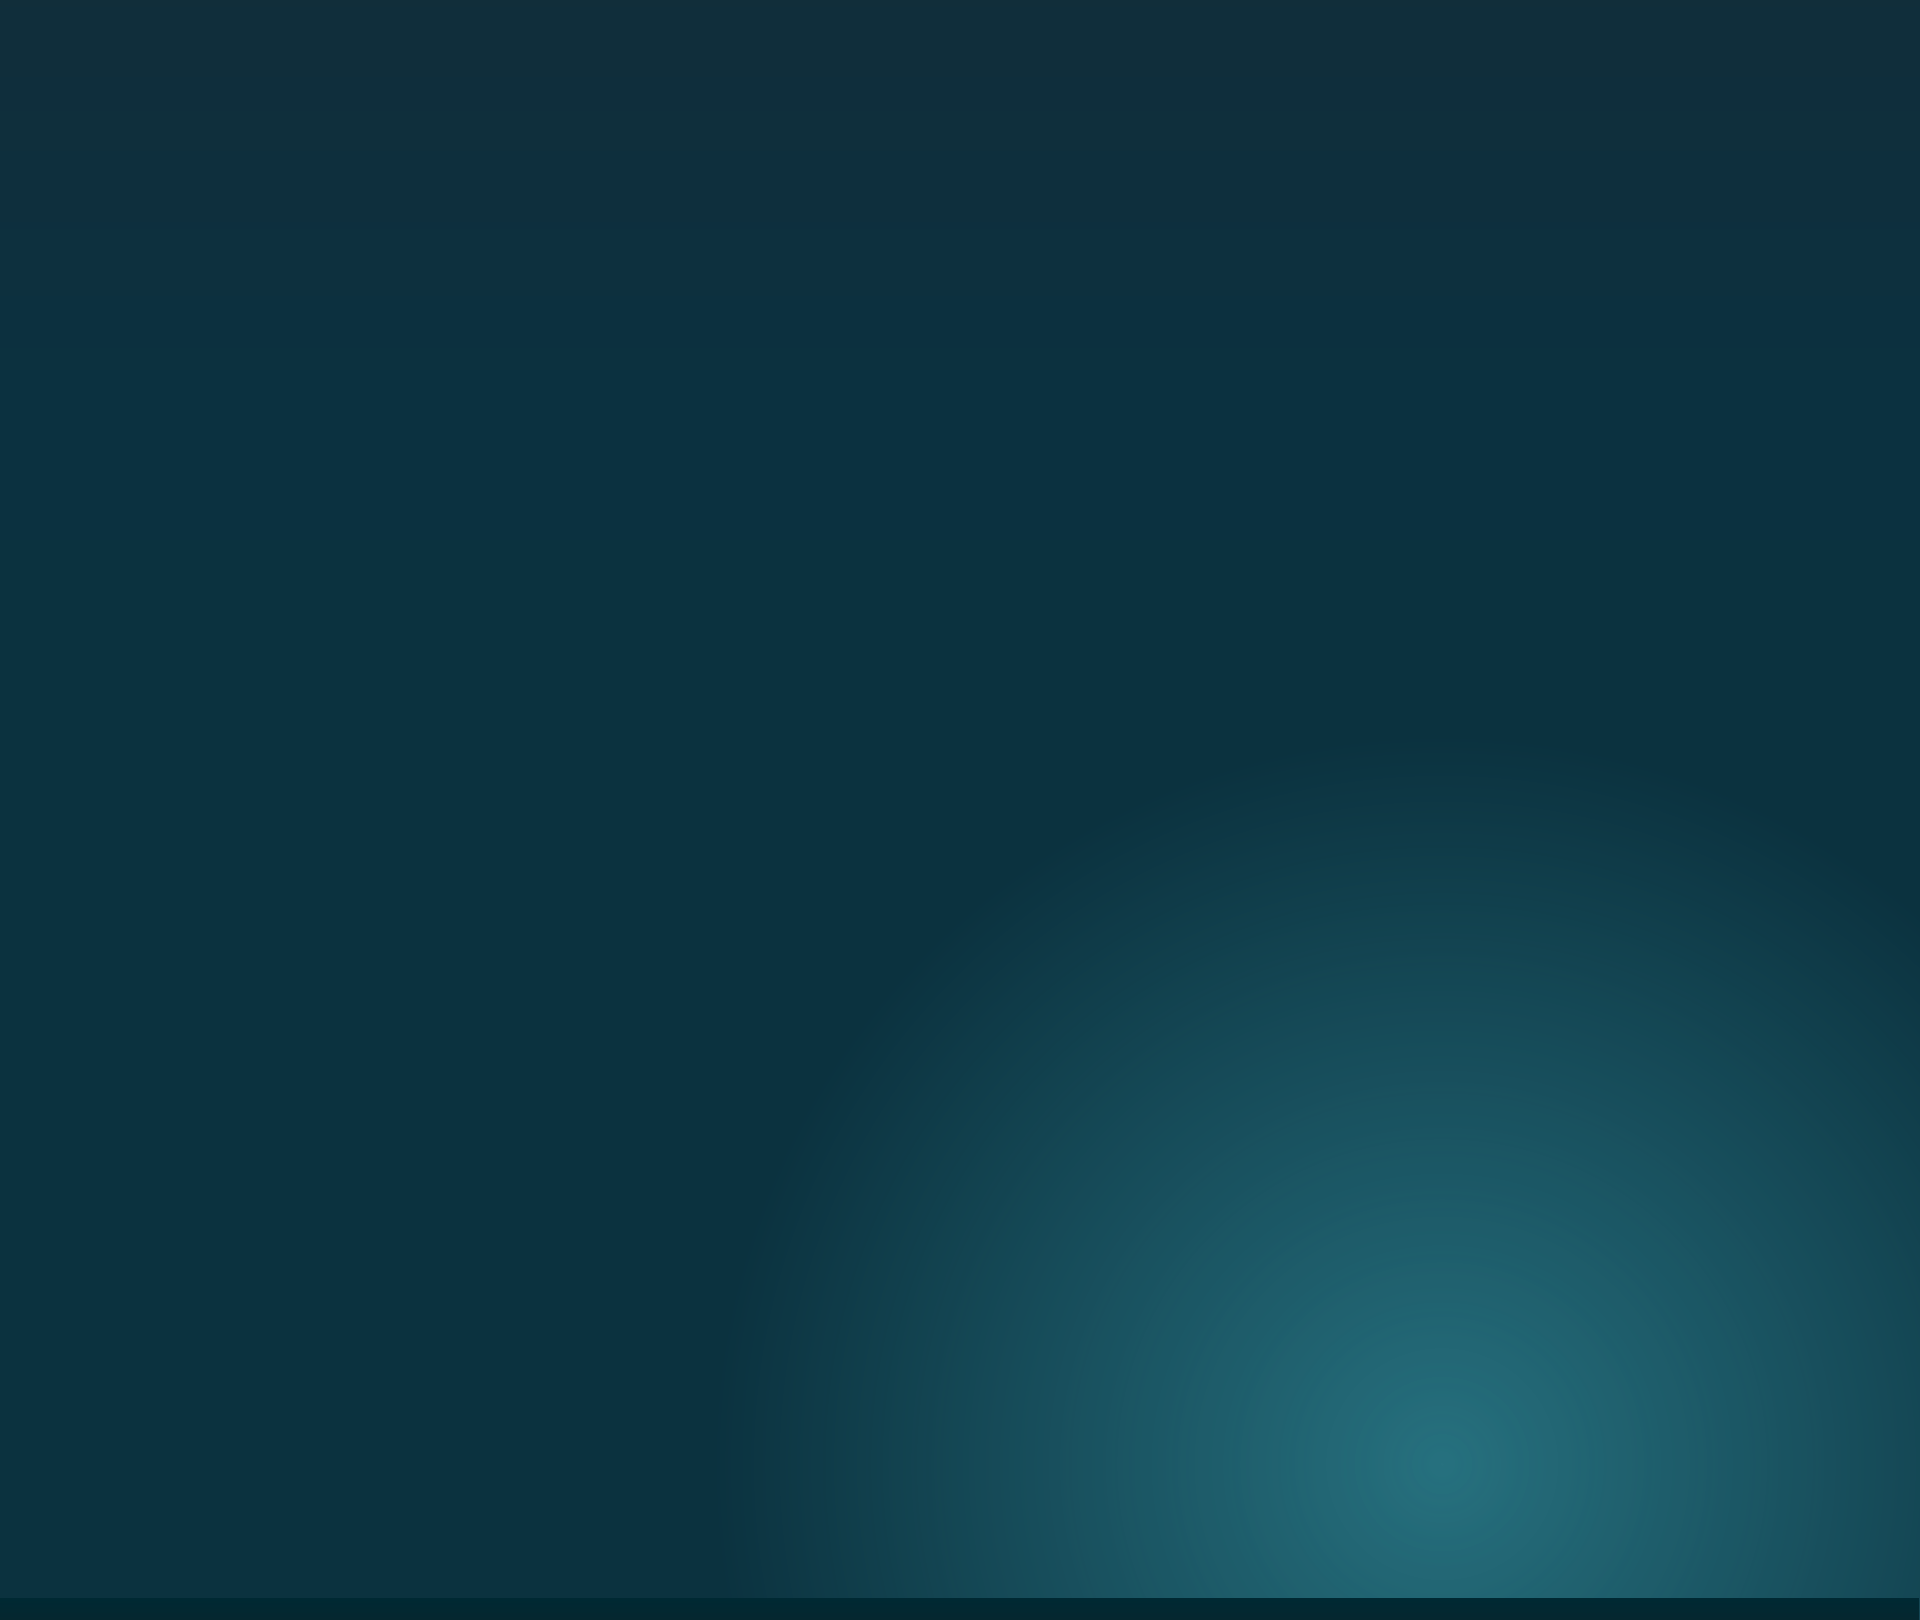
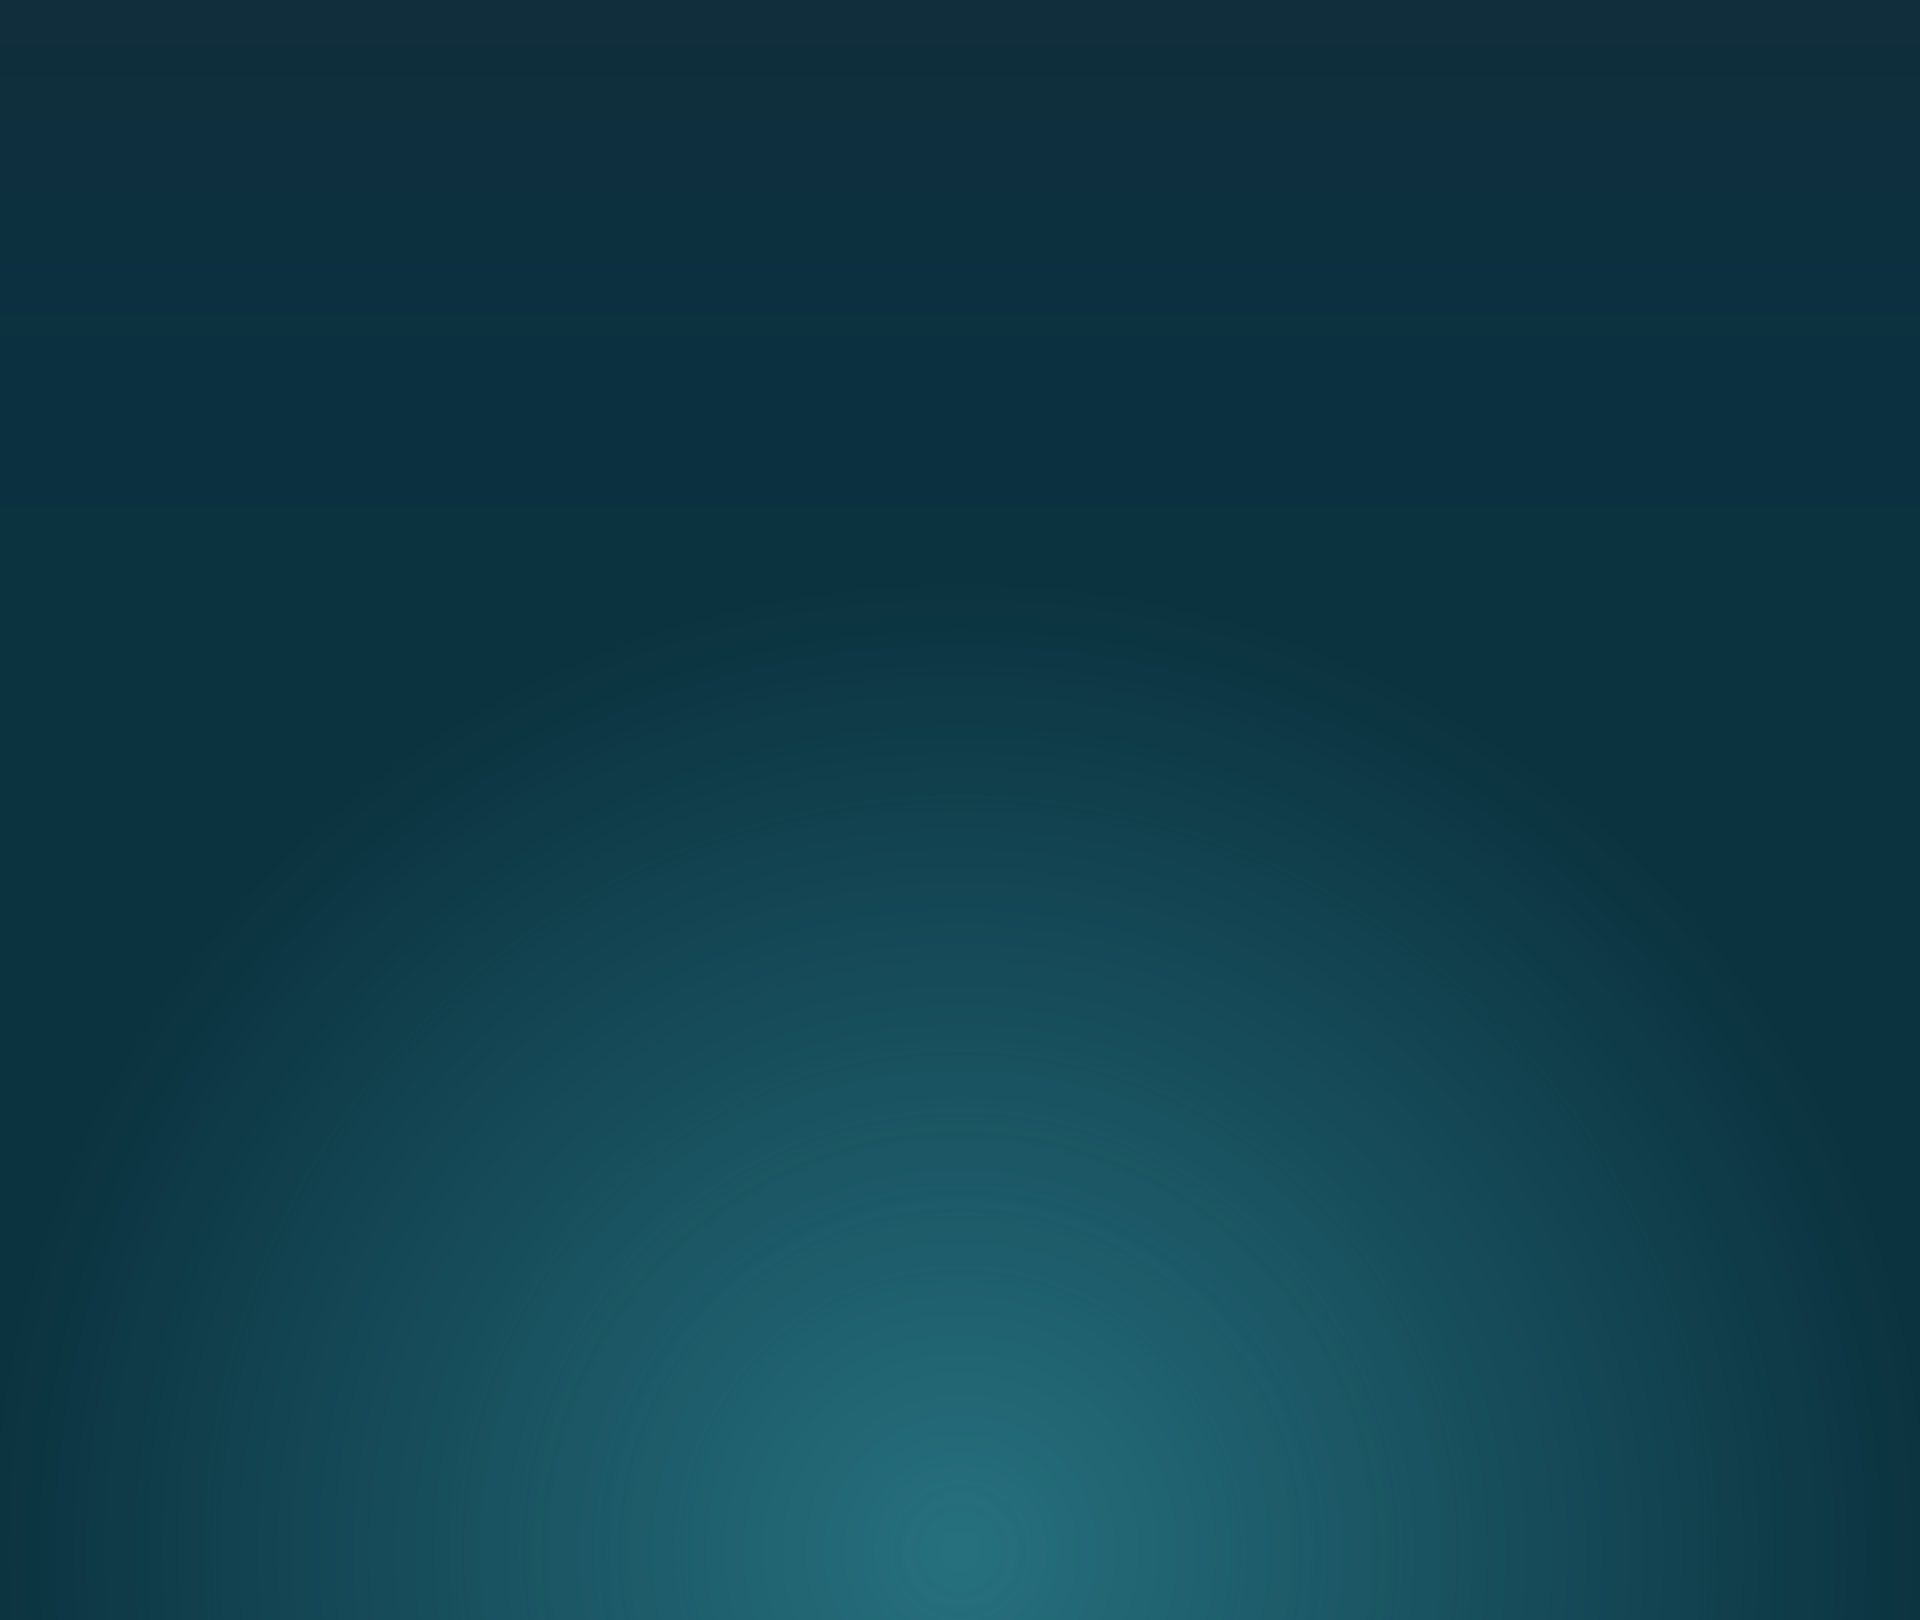
FIX

Changed region(s): [[0.0625, 0.5864, 0.9375, 1.0]]

diff --git a/網頁/AttackPage/AttackPage.html b/網頁/AttackPage/AttackPage.html
@@ -971,6 +971,11 @@
 					<img src="../../Animation/wheel.gif" width="100%"  alt=""/> 
 				</div>
 
+			</div>
+		</div>
+		<div class="section">
+			<div class="view4-1Mobile" >
+				
 
 			</div>
 		</div>
@@ -1048,7 +1053,10 @@
 				<img src="../../webpng/Attackpage/Part4BG.png" width="100%" alt=""/> 
 			</div>
 			<div class="bg4-1Mobile">
-				<img src="../../webpng/Attackpage/Part4BG-MobileNew.png" width="100%" alt=""/> 
+				<img src="../../webpng/Attackpage/Part4BG-Mobile.png" width="100%" alt=""/> 
+			</div>
+			<div class="bg4-2Mobile">
+				<img src="../../webpng/Attackpage/Part4-1BG.png" width="100%" alt=""/> 
 			</div>
 			<div class="bg5">
 				<img src="../../webpng/Attackpage/Part5BG.png" width="100%" alt=""/>

diff --git a/網頁/AttackPage/AttackPageAll.css b/網頁/AttackPage/AttackPageAll.css
@@ -141,6 +141,18 @@ button{
 	font-size: 1.33rem;
 	display: none;
 }
+.view4-1Mobile{
+	font-family: Gen Jyuu Gothic ;
+	position: absolute;
+	z-index: 5;
+	margin-top: 308%;
+	left: 0%;
+	width: 100%;
+	padding-bottom: 84%;
+	background-color: transparent;
+	font-size: 1.33rem;
+	display: none;
+}
 .view5{
 	font-family: Gen Jyuu Gothic ;
 	position: absolute;
@@ -442,6 +454,9 @@ button{
 	.view4-Mobile{
 		display: block;
 	}
+	.view4-1Mobile{
+		display: block;
+	}
 	.view5{
 		display: none;
 	}
@@ -543,6 +558,9 @@ button{
 		display: none;
 	}
 	.view4-Mobile{
+		display: block;
+	}
+	.view4-1Mobile{
 		display: block;
 	}
 	.view5{

diff --git a/網頁/AttackPage/AtackPagePart4.css b/網頁/AttackPage/AtackPagePart4.css
@@ -21,6 +21,16 @@
 	display: none;
 	border: solid 2px red;
 }
+.bg4-2Mobile{
+	position: absolute;
+	z-index: -1;
+	left: 0%;
+	width: 100%;
+	opacity: 1;
+	margin-top: 308%;
+	display: none;
+	border: solid 2px #00FF00;
+}
 .SDCBA{
 	position: absolute;
 	margin-left: 93%;
@@ -4411,6 +4421,9 @@
 	.bg4-1Mobile{
 		display: block;
 	}
+	.bg4-2Mobile{
+		display: block;
+	}
 }
 
 @media (min-device-width: 100px) and (max-device-width: 375px){
@@ -4420,6 +4433,9 @@
 		display: none;
 	}
 	.bg4-1Mobile{
+		display: block;
+	}
+	.bg4-2Mobile{
 		display: block;
 	}
 }
